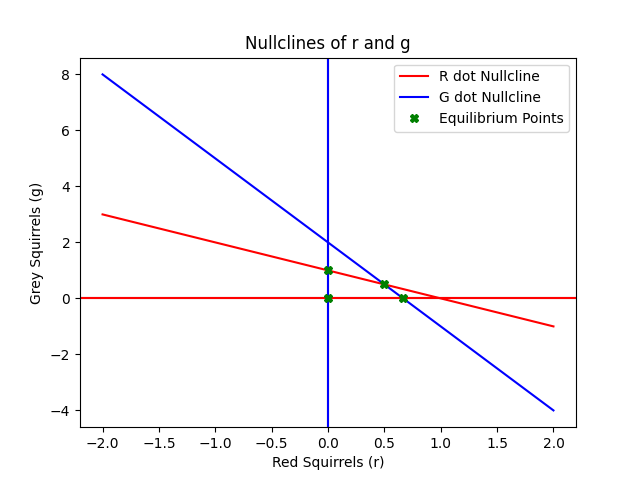
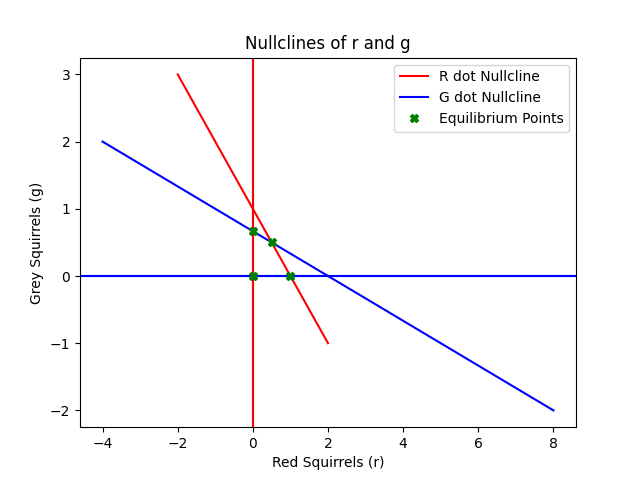
GRAPH FINALLY CORRECT

diff --git a/Question_4.py b/Question_4.py
@@ -36,22 +36,22 @@ for count in Nr:
     index = index + 1
 
 plt.plot(Nr,Ng,'r',label="R dot Nullcline")
-plt.axhline(0,0,1,color="r")
+plt.axvline(0,0,1,color="r")
 
-Nr = np.linspace(-2,2,500)
-Ng = []
+Ng = np.linspace(-2,2,500)
+Nr = []
 index = 0
-for count in Nr:
-    Ng.append(null_g(Nr[index]))
+for count in Ng:
+    Nr.append(null_g(Ng[index]))
     index = index + 1
 
 plt.plot(Nr,Ng,'b',label="G dot Nullcline")
-plt.axvline(0,0,1,color="b")
+plt.axhline(0,0,1,color="b")
 
 plt.plot(0.5,0.5,'gX',label="Equilibrium Points")
 plt.plot(0,0,'gX')
-plt.plot(2/3,0,'gX')
-plt.plot(0,1,'gX')
+plt.plot(0,2/3,'gX')
+plt.plot(1,0,'gX')
 
 plt.legend()
 plt.savefig("./Nullclines.png")
